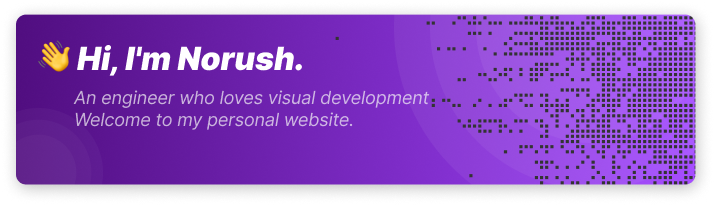
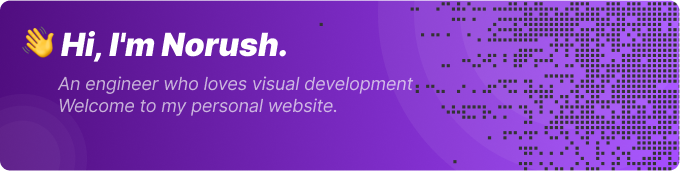
fix: update md img

diff --git a/README.md b/README.md
@@ -1,4 +1,4 @@
-<img src="/public/banner/resume-banner.png" alt="Norush" />
+<img src="/public/banner/resume-banner.png" alt="Norush" style="width: 100%;" />
 
 [![Netlify Status](https://api.netlify.com/api/v1/badges/3238f37e-b0c6-49d7-992d-9f04420d6d6d/deploy-status)](https://app.netlify.com/sites/norushme/deploys)
 
